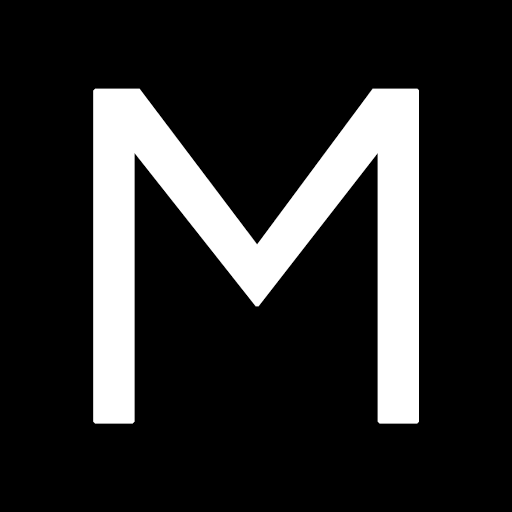
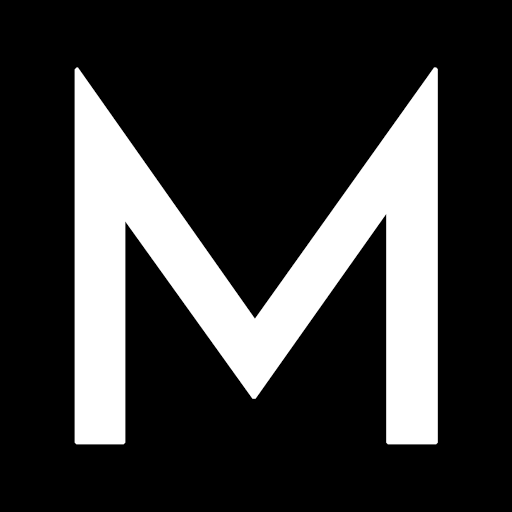
changed font

Changed region(s): [[0.125, 0.125, 0.875, 0.875]]

diff --git a/gatsby-config.js b/gatsby-config.js
@@ -35,7 +35,10 @@ module.exports = {
       resolve: `gatsby-plugin-google-fonts`,
       options: {
         fonts: [
-          `Questrial`
+          `Questrial`,
+          `Montserrat`,
+          `Prompt`,
+          `Josefin Sans`
         ],
         display: 'swap'
       }

diff --git a/src/components/scss/_global.scss b/src/components/scss/_global.scss
@@ -6,6 +6,7 @@ html {
 }
 body{
     font-family: $font-family;
+    font-family: 'Josefin Sans', sans-serif;
     background-color: $black;
     color: $white;
     line-height: 1.5rem;
